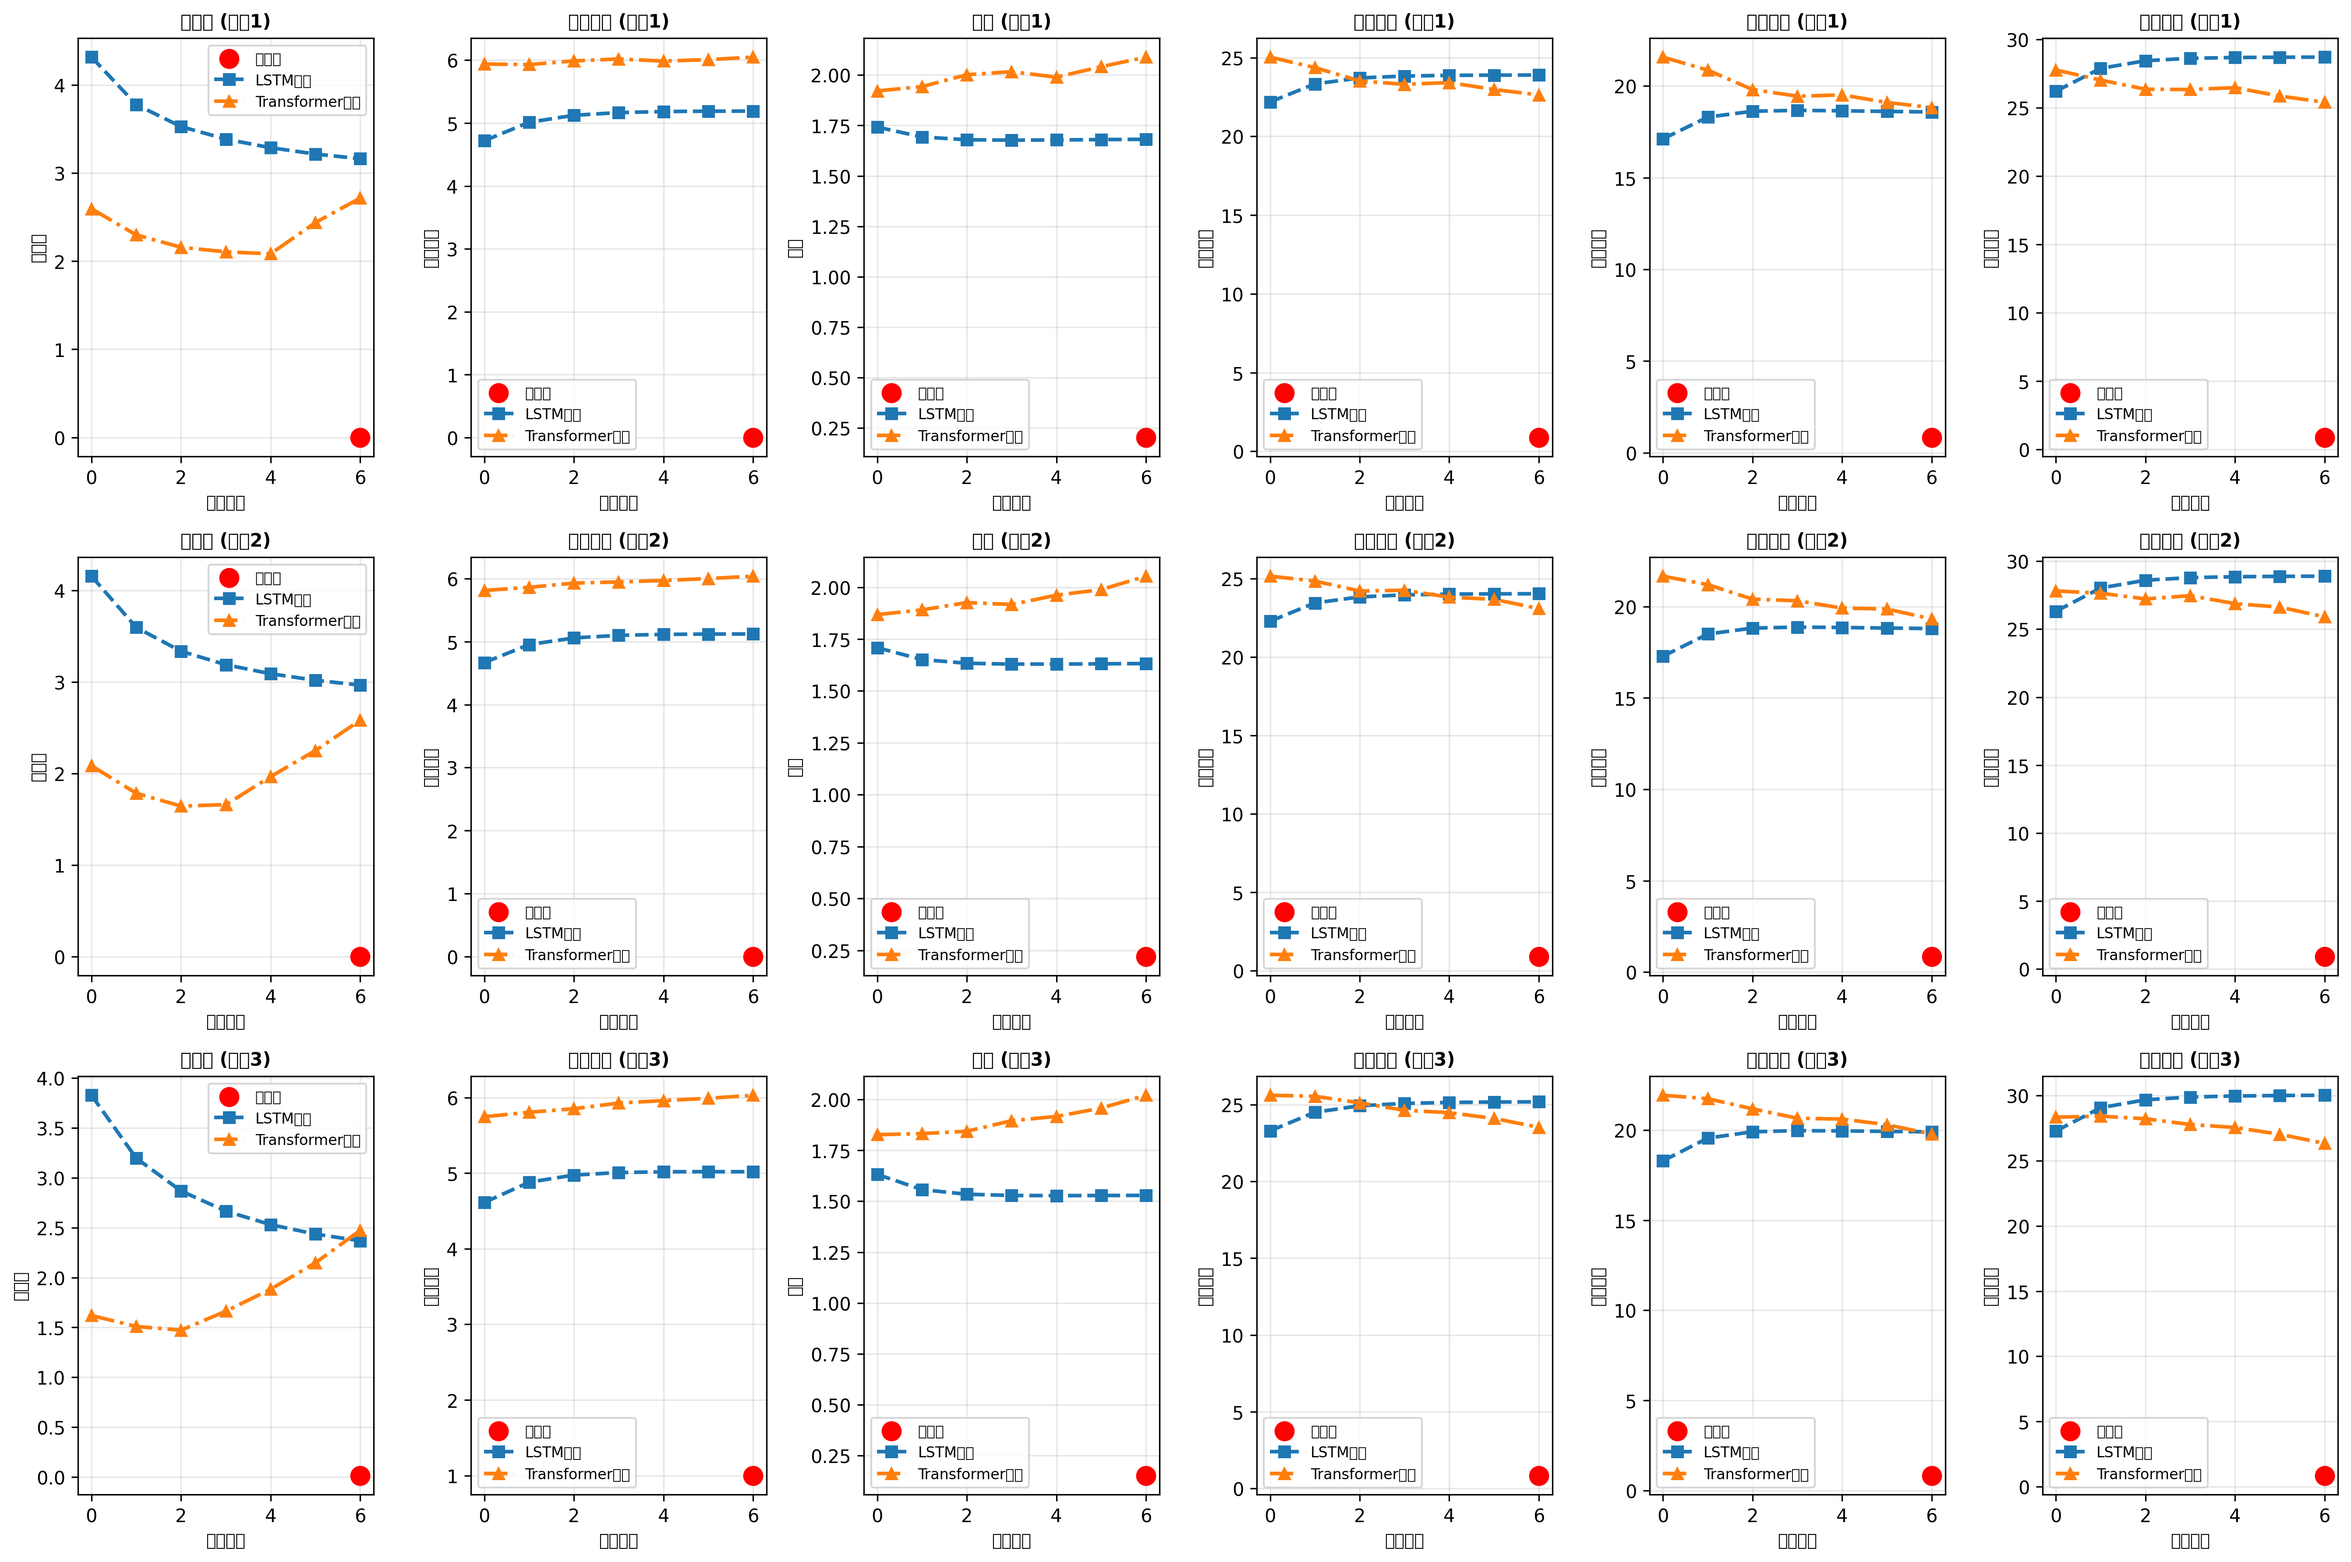
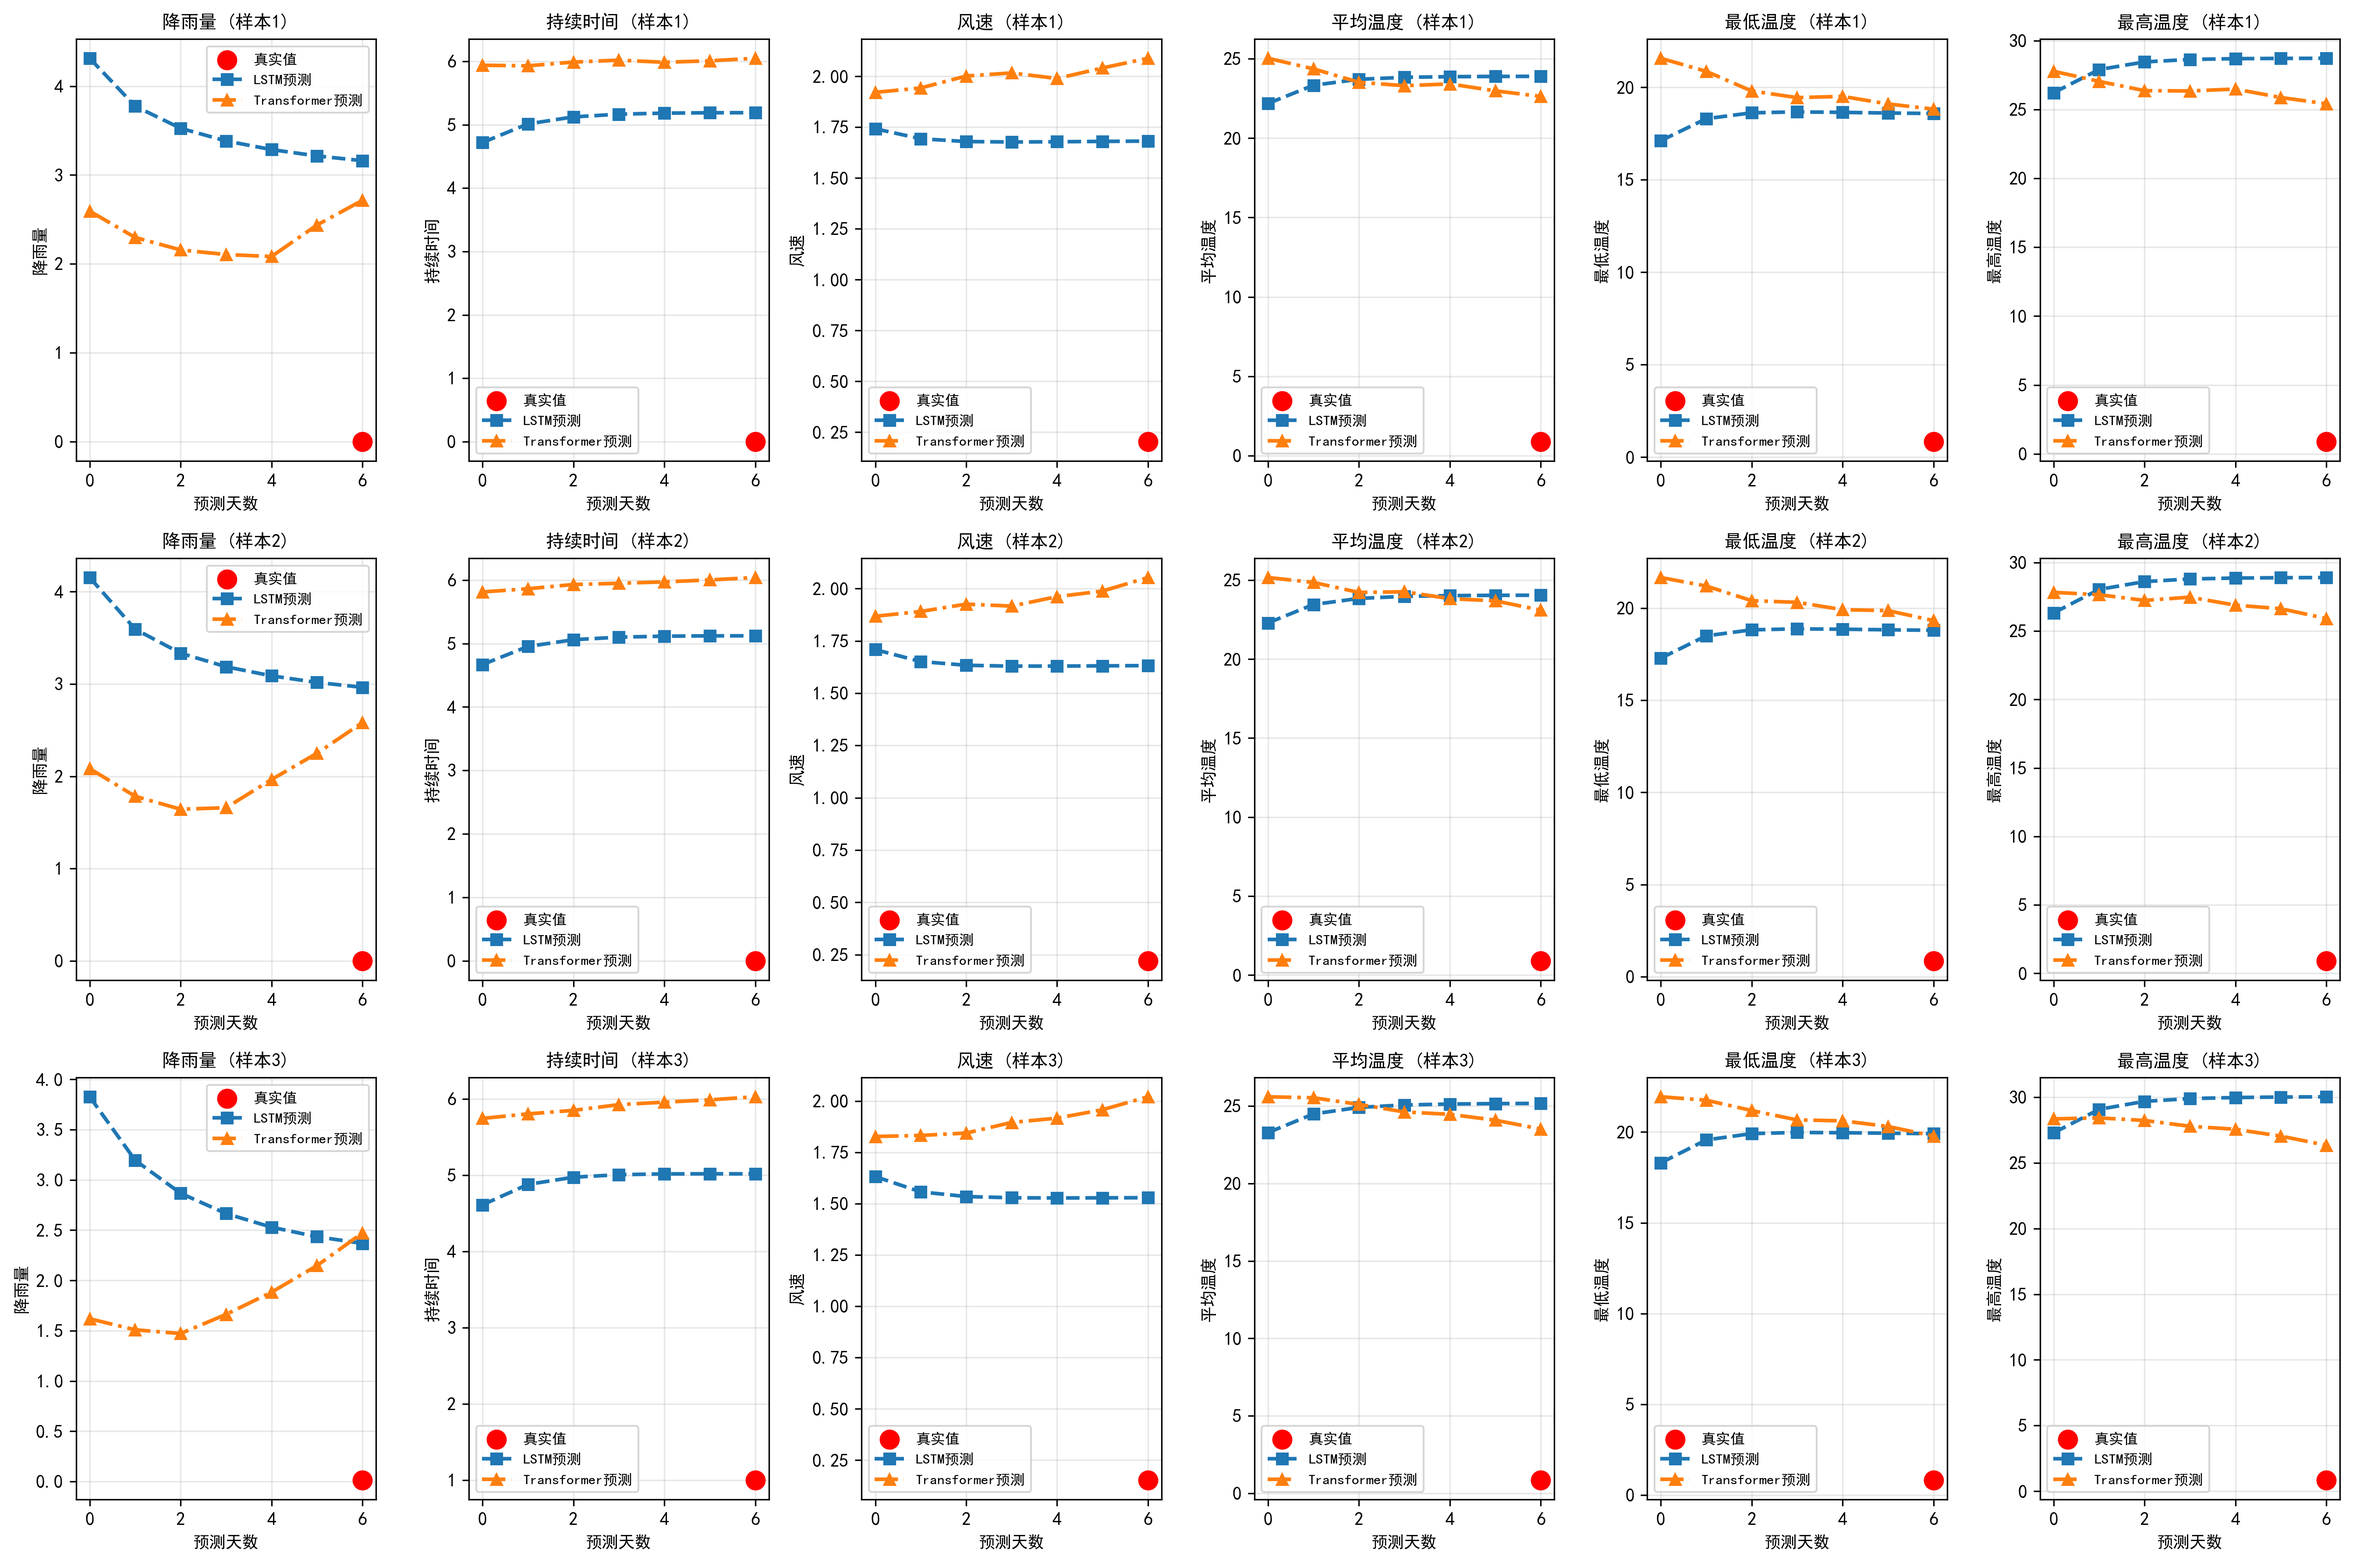
fix:bug

diff --git a/evaluate_models.py b/evaluate_models.py
@@ -5,7 +5,13 @@ from sklearn.metrics import mean_absolute_error, mean_squared_error, r2_score
 import sys
 import os
 from pathlib import Path
+# 在evaluate_models.py文件的开头添加以下代码
+import matplotlib.pyplot as plt
+import matplotlib as mpl
 
+# 设置中文字体支持
+mpl.rcParams['font.sans-serif'] = ['SimHei']  # 使用黑体
+mpl.rcParams['axes.unicode_minus'] = False  # 解决负号显示问题
 # 添加项目根目录到Python路径
 sys.path.append(os.path.dirname(os.path.abspath(__file__)))
 
